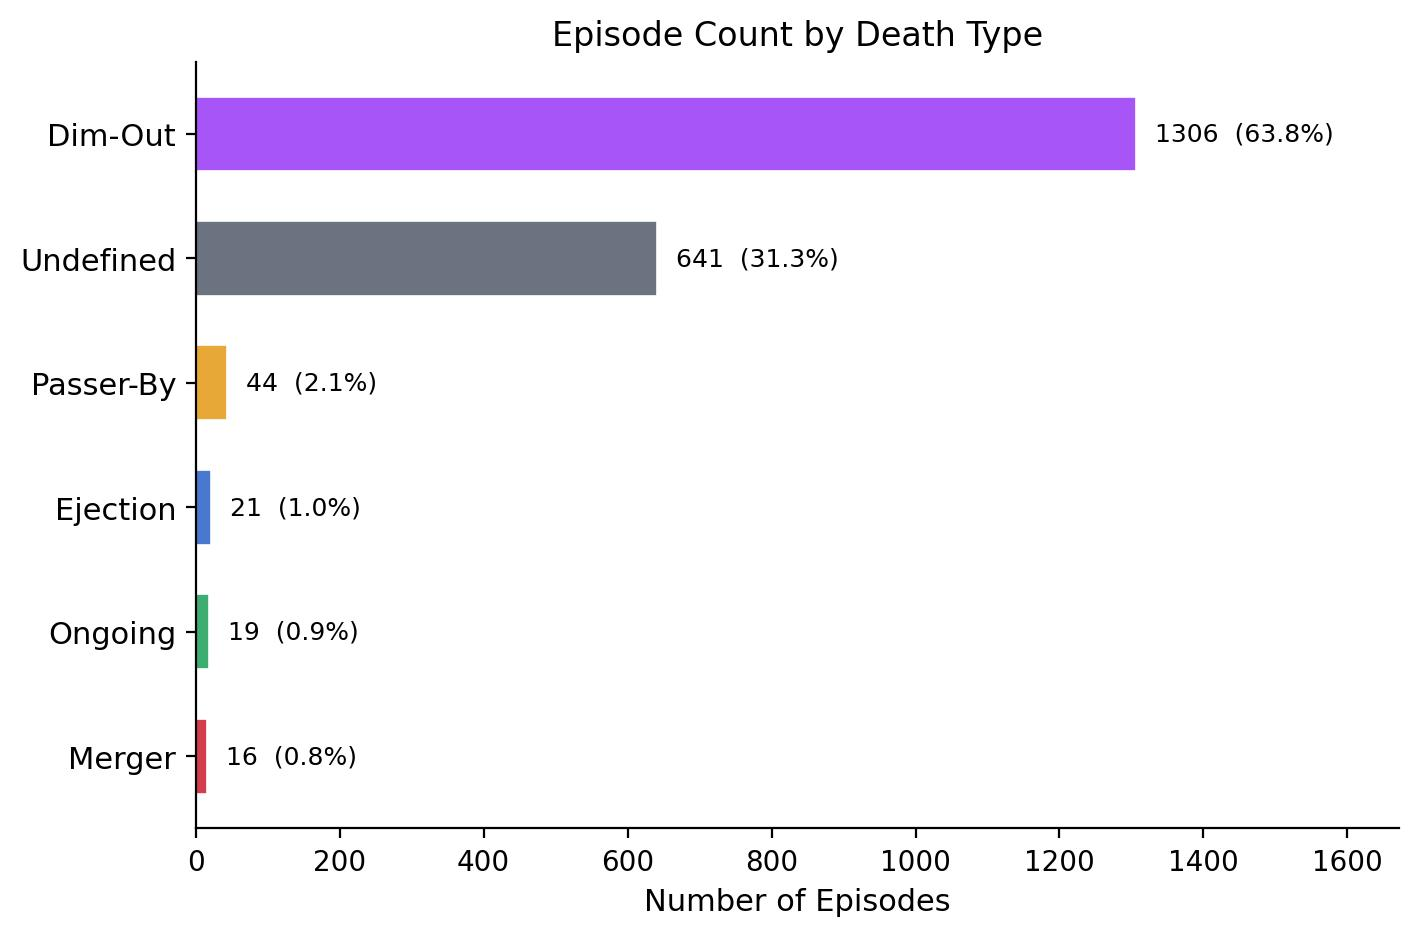
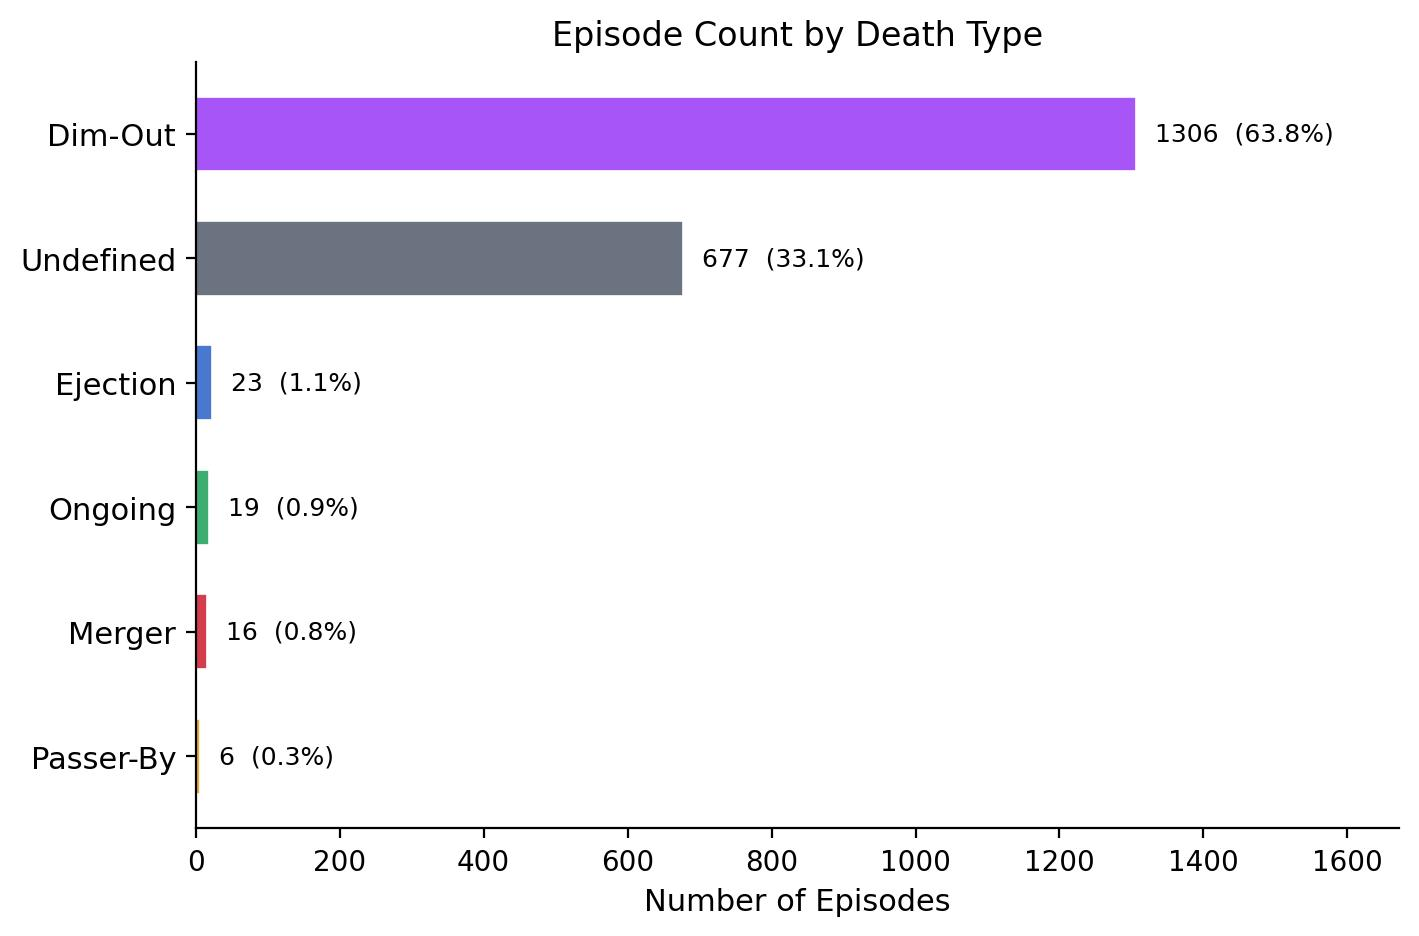
updates

diff --git a/main.tex b/main.tex
@@ -653,35 +653,35 @@ These gas column density maps represent individual frames from longer time-serie
 \begin{figure}[H]
     \centering
     \includegraphics[width=\columnwidth]{plot_1.jpeg}
-    \caption{Terminal fate classification of all 2,047 triple AGN episodes, counted per episode rather than per system, since 383 of the 1,397 systems re-form after a gap and contribute more than one episode. An episode is a contiguous run of snapshots over which the same three SMBHs satisfy the triple AGN selection criteria, with gaps of two snapshots or fewer bridged. Fates are assigned at the first usable snapshot after the episode, in the order Ongoing (the episode reaches the final catalogued snapshot), Merger (a member has vanished, having been within $0.7\,\mathrm{kpc}$ of another member), Dim-Out (a member has dropped below the threshold but is still accreting, $10^{38} \leq L_\mathrm{bol} < 10^{40}\,\mathrm{erg\,s^{-1}}$), Passer-By (the same two SMBHs are a dual AGN immediately before and after the episode), Ejection (all three SMBHs still exist but a member has left the $30\,\mathrm{kpc}$ configuration), and Undefined (all remaining episodes). Dim-Out accounts for 63.8\% of episodes, Undefined for 31.3\%, Passer-By for 2.1\%, Ejection for 1.0\%, Ongoing for 0.9\%, and Merger for 0.8\%.}
+    \caption{Terminal fate classification of all 2,047 triple AGN episodes, counted per episode rather than per system, since 383 of the 1,397 systems re-form after a gap and contribute more than one episode. An episode is a contiguous run of snapshots over which the same three SMBHs satisfy the triple AGN selection criteria, with gaps of two snapshots or fewer bridged. Fates are assigned at the first usable snapshot after the episode, in the order Ongoing (the episode reaches the final catalogued snapshot), Merger (a member has vanished, having been within $0.7\,\mathrm{kpc}$ of another member), Dim-Out (a member has dropped below the threshold but is still accreting, $10^{38} \leq L_\mathrm{bol} < 10^{40}\,\mathrm{erg\,s^{-1}}$), Passer-By (the same two SMBHs are a dual AGN immediately before and after the episode, while the third lies beyond $30\,\mathrm{kpc}$ of both), Ejection (all three SMBHs still exist but a member has left the $30\,\mathrm{kpc}$ configuration), and Undefined (all remaining episodes). Dim-Out accounts for 63.8\% of episodes, Undefined for 33.1\%, Ejection for 1.1\%, Ongoing for 0.9\%, Merger for 0.8\%, and Passer-By for 0.3\%.}
     \label{fig:fates}
 \end{figure}
 
 \begin{figure*}
     \centering
     \includegraphics[width=\textwidth]{plot_rs.jpeg}
-    \caption{Redshift evolution of triple AGN episode fates. \textit{Left:} Number of episodes in each of ten redshift bins spanning $z = 0$ to $z = 3$, stacked and coloured by terminal fate as classified in Section~\ref{subsec:fates}. \textit{Right:} The same data as the fraction of episodes in each bin. Dim-Out dominates at all redshifts (57--70\%), followed by Undefined (23--40\%), which is somewhat more common at high redshift. Passer-By (0.5--6\%), Ejection (0--3\%), and Merger (0--3\%) show no clear redshift trend. The rise in the Ongoing fraction in the lowest-redshift bin is an artefact of the catalogue ending at $z \approx 0.06$.}
+    \caption{Redshift evolution of triple AGN episode fates. \textit{Left:} Number of episodes in each of ten redshift bins spanning $z = 0$ to $z = 3$, stacked and coloured by terminal fate as classified in Section~\ref{subsec:fates}. \textit{Right:} The same data as the fraction of episodes in each bin. Dim-Out dominates at all redshifts (57--70\%), followed by Undefined (27--41\%), which is somewhat more common at high redshift. Ejection (0--3\%), Merger (0--3\%), and Passer-By ($<1\%$) show no clear redshift trend. The rise in the Ongoing fraction in the lowest-redshift bin is an artefact of the catalogue ending at $z \approx 0.06$.}
     \label{fig:fates_z}
 \end{figure*}
 
 The lifetime analysis presented in Section~\ref{subsec:lifetimes} characterised how long triple AGN systems persist, but did not address how they cease to satisfy the triple AGN criteria. To close this gap, we classify the fate of every triple AGN episode in the census, an episode being defined as a contiguous run of consecutive snapshots over which a given system satisfies the selection criteria of Section~\ref{subsec:identification}. Gaps of two or fewer consecutive snapshots between appearances of the same system are bridged into a single episode, so that a member briefly falling below the $10^{40}\,\mathrm{erg\,s^{-1}}$ threshold for one or two snapshots does not end the episode. Only gaps of three or more consecutive snapshots are treated as genuine dissolutions, generating a new, distinct episode upon the system's reappearance.
 
-The fates are counted per episode, not per system, so their total (2,047) exceeds the number of unique triple AGN systems identified in Section~\ref{subsec:lifetimes} (1,397). A system, that is, a given set of three SMBHs, can cease to satisfy the selection criteria for three or more consecutive snapshots and later satisfy them again, and each such return begins a new episode with its own terminal fate. Of the 1,397 systems, 1,014 (73\%) form a triple AGN in only a single episode, while the remaining 383 (27\%) re-form between one and seven times, after gaps of 3 to 53 snapshots (median 6), and contribute 1,033 episodes between them. These 650 re-entries account for the difference between the two totals. Because the SMBHs in a re-entering system must still exist and return to within $30\,\mathrm{kpc}$ of one another, the earlier episodes of such systems end almost exclusively in Dim-Out (459) or Undefined (179), with only 9 Passer-By and 3 Ejection episodes, and never in a Merger. Restricting the classification to the final episode of each system gives 847 Dim-Out, 462 Undefined, 35 Passer-By, 19 Ongoing, 18 Ejection, and 16 Merger fates among the 1,397 systems.
+The fates are counted per episode, not per system, so their total (2,047) exceeds the number of unique triple AGN systems identified in Section~\ref{subsec:lifetimes} (1,397). A system, that is, a given set of three SMBHs, can cease to satisfy the selection criteria for three or more consecutive snapshots and later satisfy them again, and each such return begins a new episode with its own terminal fate. Of the 1,397 systems, 1,014 (73\%) form a triple AGN in only a single episode, while the remaining 383 (27\%) re-form between one and seven times, after gaps of 3 to 53 snapshots (median 6), and contribute 1,033 episodes between them. These 650 re-entries account for the difference between the two totals. Because the SMBHs in a re-entering system must still exist and return to within $30\,\mathrm{kpc}$ of one another, the earlier episodes of such systems end almost exclusively in Dim-Out (459) or Undefined (185), with only 3 Ejection and 3 Passer-By episodes, and never in a Merger. Restricting the classification to the final episode of each system gives 847 Dim-Out, 492 Undefined, 20 Ejection, 19 Ongoing, 16 Merger, and 3 Passer-By fates among the 1,397 systems.
 
 For each episode we determine its terminal fate at the first usable snapshot following its final detection, applying the following classification in priority order. Luminosities are taken from an AGN catalogue with a floor of $10^{38}\,\mathrm{erg\,s^{-1}}$, or computed from the accretion rate in the \textsc{Tangos} database with the same floor where that catalogue is unavailable. Three-dimensional separations are taken from the projected master catalogues of Section~\ref{subsec:projected_selection}, pooled over the three viewing axes.
 \begin{enumerate}
     \item \textbf{Ongoing:} the episode is still active at the final catalogued snapshot, so that its fate lies beyond the redshift range probed by this study.
     \item \textbf{Merger:} one of the three SMBHs is absent from the black hole catalogue at the following snapshot, and at the final snapshot of the episode it lay within $0.7\,\mathrm{kpc}$ of another member, the separation below which Romulus25 merges SMBHs (Section~\ref{subsubsec:dynamics}). In Romulus25 a merged SMBH disappears permanently, and none of the vanished SMBHs reappears in any later snapshot.
     \item \textbf{Dim-Out:} a member has dropped below the detection threshold but is still accreting, with $10^{38} \leq L_\mathrm{bol} < 10^{40}\,\mathrm{erg\,s^{-1}}$ at the following snapshot, so that it remains in the AGN catalogue with a floor of $10^{38}\,\mathrm{erg\,s^{-1}}$. No condition is placed on the other two members: they need not remain a dual AGN, since the member that dimmed may have been the one linking them within $30\,\mathrm{kpc}$.
-    \item \textbf{Passer-By:} the same two SMBHs were an active dual AGN in the snapshot immediately preceding the episode and remain an active dual in the snapshot immediately following it, so that the dual outlasted the triple.
+    \item \textbf{Passer-By:} a third SMBH passes through the neighbourhood of a stable dual AGN. The same two SMBHs are an active dual AGN in the snapshot immediately preceding the episode and in the snapshot immediately following it, and at both of these snapshots the third SMBH exists and lies more than $30\,\mathrm{kpc}$ from both members of the pair. No minimum duration is required of the triple episode itself.
     \item \textbf{Ejection:} all three SMBHs still exist at the following snapshot, but a member has left the system: no member lies within $30\,\mathrm{kpc}$ of both others, so the configuration required by the triple selection is broken.
     \item \textbf{Undefined:} all remaining episodes.
 \end{enumerate}
 A residual Unknown category is reserved for cases in which the black hole catalogue for the following snapshot is unavailable; no episodes in our census fell into this category.
 
-Figure~\ref{fig:fates} shows the resulting distribution of terminal fates. Dim-Out is by far the most common, ending 1,306 of the 2,047 episodes (63.8\%) and occurring at least once in 954 of the 1,397 unique systems (68\%). It is followed by Undefined, with 641 episodes (31.3\%). Passer-By and Ejection account for 44 (2.1\%) and 21 (1.0\%) episodes, and the rarest fates are Ongoing, with 19 (0.9\%), and Merger, with 16 (0.8\%). In Dim-Out episodes the dimmed member has a median luminosity of $1.3 \times 10^{39}\,\mathrm{erg\,s^{-1}}$ at the following snapshot, roughly an order of magnitude below the threshold, and in 892 of them it is the only member below the threshold. It is usually one of the companions (Figure~\ref{fig:merger_roles}): Neighbour~2 in 850 episodes (65\%), Neighbour~1 in 403 (31\%), and the Host in 53 (4\%). Because the Dim-Out test precedes the Ejection test, 36 Dim-Out episodes in which the members also no longer satisfy the $30\,\mathrm{kpc}$ geometry are counted as Dim-Out; in 8 of these the dimmed member is also the one that has moved away, in 26 a different member has, and in 2 all three have separated. Of the 21 Ejections, 19 leave two members within $30\,\mathrm{kpc}$ of each other while the third has left, and in 2 all three members have separated.
+Figure~\ref{fig:fates} shows the resulting distribution of terminal fates. Dim-Out is by far the most common, ending 1,306 of the 2,047 episodes (63.8\%) and occurring at least once in 954 of the 1,397 unique systems (68\%). It is followed by Undefined, with 641 episodes (31.3\%). Ejection accounts for 23 episodes (1.1\%), and the rarest fates are Ongoing, with 19 (0.9\%), Merger, with 16 (0.8\%), and Passer-By, with only 6 (0.3\%). Five of the six Passer-By episodes last a single snapshot, so these are genuinely brief encounters. In Dim-Out episodes the dimmed member has a median luminosity of $1.3 \times 10^{39}\,\mathrm{erg\,s^{-1}}$ at the following snapshot, roughly an order of magnitude below the threshold, and in 892 of them it is the only member below the threshold. It is usually one of the companions (Figure~\ref{fig:merger_roles}): Neighbour~2 in 850 episodes (65\%), Neighbour~1 in 403 (31\%), and the Host in 53 (4\%). Because the Dim-Out test precedes the Ejection test, 36 Dim-Out episodes in which the members also no longer satisfy the $30\,\mathrm{kpc}$ geometry are counted as Dim-Out; in 8 of these the dimmed member is also the one that has moved away, in 26 a different member has, and in 2 all three have separated. The Passer-By and Ejection classes are closely related. Both end with all three SMBHs still present and the $30\,\mathrm{kpc}$ configuration broken, so every Passer-By episode would also satisfy the Ejection criterion and is distinguished only because the Passer-By test is applied first. A Passer-By is thus the subset of such departures with two additional properties: the departing SMBH lay more than $30\,\mathrm{kpc}$ from both other members before the episode, so it was never part of the system before the triple formed, and the remaining two SMBHs are an undisturbed dual AGN in the snapshots on either side of the episode. The Ejection class places no condition on the state of the system before the episode. Of the 23 Ejections, 14 are ejections in the strict sense: the departing SMBH already lay within $30\,\mathrm{kpc}$ of another member before the episode, and so left a system it had belonged to. In a further 7, the departing SMBH, like a passer-by, arrived from beyond $30\,\mathrm{kpc}$, but the remaining pair was not a dual AGN both before and after the episode: in 6 it was a dual at neither of these snapshots, and in 1 at only one of them. In the remaining 2, all three members have separated, so that no single member can be identified as having left.
 
-Table~\ref{tab:end_states} divides the Undefined class according to the state of the three SMBHs at the following snapshot. In 384 of the 641 Undefined episodes (60\%), all three members remain above the threshold and in the same configuration, but an additional AGN lies within $30\,\mathrm{kpc}$ of at least one member, so that the system no longer has exactly two AGN neighbours. In 141 episodes (22\%), the three SMBHs are still together but the member that fell below the threshold has dropped below $10^{38}\,\mathrm{erg\,s^{-1}}$, out of the AGN catalogue, so that the episode does not meet the Dim-Out criteria. In 110 episodes (17\%), one member has vanished from the black hole catalogue, but it lay more than $0.7\,\mathrm{kpc}$ from the other members at the final snapshot of the episode. These SMBHs have merged with some black hole between snapshots, but the merger with another member of the triple cannot be confirmed. At the final snapshot they lie a median of $1.4\,\mathrm{kpc}$ from the nearest member, with 76\% within $2\,\mathrm{kpc}$, so many are likely to have merged with a member of the triple within the $\sim 143\,\mathrm{Myr}$ before the following snapshot. The six remaining episodes cannot be measured. Over all episodes, a member falls below the threshold while the SMBHs remain together in 1,444 cases (70.5\%), of which 1,270 are Dim-Outs, 141 Undefined, and 33 Passer-By episodes, whereas the departure of a member accounts for only 65 (3.2\%), the 21 Ejections, 36 Dim-Outs, and 8 Passer-By episodes. The state is measured only at the following snapshot, a median of 143\,Myr later, so excursions between snapshots are not captured.
+Table~\ref{tab:end_states} divides the Undefined class according to the state of the three SMBHs at the following snapshot. In 384 of the 677 Undefined episodes (57\%), all three members remain above the threshold and in the same configuration, but an additional AGN lies within $30\,\mathrm{kpc}$ of at least one member, so that the system no longer has exactly two AGN neighbours. In 174 episodes (26\%), the three SMBHs are still together but the member that fell below the threshold has dropped below $10^{38}\,\mathrm{erg\,s^{-1}}$, out of the AGN catalogue, so that the episode does not meet the Dim-Out criteria. This group includes 33 episodes in which the other two members remain a dual AGN before and after the episode, but which are not Passer-By episodes because the third SMBH never left the $30\,\mathrm{kpc}$ neighbourhood. In 113 episodes (17\%), one member has vanished from the black hole catalogue, but it lay more than $0.7\,\mathrm{kpc}$ from the other members at the final snapshot of the episode. These SMBHs have merged with some black hole between snapshots, but the merger with another member of the triple cannot be confirmed. At the final snapshot they lie a median of $1.4\,\mathrm{kpc}$ from the nearest member, with 75\% within $2\,\mathrm{kpc}$, so many are likely to have merged with a member of the triple within the $\sim 143\,\mathrm{Myr}$ before the following snapshot. The six remaining episodes cannot be measured. Over all episodes, a member falls below the threshold while the SMBHs remain together in 1,444 cases (70.5\%), of which 1,270 are Dim-Outs and 174 Undefined, whereas the departure of a member accounts for only 65 (3.2\%), the 23 Ejections, 36 Dim-Outs, and 6 Passer-By episodes. The state is measured only at the following snapshot, a median of 143\,Myr later, so excursions between snapshots are not captured.
 
 \begin{table}
     \centering
@@ -692,22 +692,22 @@ Table~\ref{tab:end_states} divides the Undefined class according to the state of
         Fate & $N$ & \% \\
         \hline
         Dim-Out & 1,306 & 63.8 \\
-        Undefined & 641 & 31.3 \\
+        Undefined & 677 & 33.1 \\
         \quad further AGN within $30\,\mathrm{kpc}$ & 384 & 18.8 \\
-        \quad member below $10^{38}\,\mathrm{erg\,s^{-1}}$ & 141 & 6.9 \\
-        \quad member vanished beyond $0.7\,\mathrm{kpc}$ & 110 & 5.4 \\
+        \quad member below $10^{38}\,\mathrm{erg\,s^{-1}}$ & 174 & 8.5 \\
+        \quad member vanished beyond $0.7\,\mathrm{kpc}$ & 113 & 5.5 \\
         \quad not measurable & 6 & 0.3 \\
-        Passer-By & 44 & 2.1 \\
-        Ejection & 21 & 1.0 \\
+        Ejection & 23 & 1.1 \\
         Ongoing & 19 & 0.9 \\
         Merger & 16 & 0.8 \\
+        Passer-By & 6 & 0.3 \\
         \hline
     \end{tabular}
 \end{table}
 
-Confirmed SMBH--SMBH mergers end only 0.8\% of episodes, and even counting all 113 SMBHs that vanished while lying further from the other members (110 Undefined and 3 Passer-By episodes), mergers would end 6.3\% of episodes. These fractions are not directly comparable to the $\sim 70\%$ of SMBH pairs in dual systems found to eventually merge by \citet{Saeedzadeh2024}. Our figures count mergers at the snapshot immediately following an episode at a threshold of $10^{40}\,\mathrm{erg\,s^{-1}}$, whereas theirs follows pairs at $10^{43}\,\mathrm{erg\,s^{-1}}$ through to coalescence. Since most episodes end with all three SMBHs still in close proximity, the low merger fraction indicates that episodes usually end before any coalescence, and following the SMBHs beyond the end of each episode would be required to determine how many eventually merge. We also note that Romulus25 merges SMBHs at separations of $0.7\,\mathrm{kpc}$, so these simulations cannot address the three-body hardening of bound binaries at parsec scales discussed in Section~\ref{subsec:triple_theory}. Among the 16 Merger episodes, the SMBH that disappears is the Host in 3, Neighbour~1 in 6, and Neighbour~2 in 7 (Figure~\ref{fig:merger_roles}, left), too few to establish which member is preferentially absorbed.
+Confirmed SMBH--SMBH mergers end only 0.8\% of episodes, and even counting all 113 SMBHs that vanished while lying further from the other members, mergers would end 6.3\% of episodes. These fractions are not directly comparable to the $\sim 70\%$ of SMBH pairs in dual systems found to eventually merge by \citet{Saeedzadeh2024}. Our figures count mergers at the snapshot immediately following an episode at a threshold of $10^{40}\,\mathrm{erg\,s^{-1}}$, whereas theirs follows pairs at $10^{43}\,\mathrm{erg\,s^{-1}}$ through to coalescence. Since most episodes end with all three SMBHs still in close proximity, the low merger fraction indicates that episodes usually end before any coalescence, and following the SMBHs beyond the end of each episode would be required to determine how many eventually merge. We also note that Romulus25 merges SMBHs at separations of $0.7\,\mathrm{kpc}$, so these simulations cannot address the three-body hardening of bound binaries at parsec scales discussed in Section~\ref{subsec:triple_theory}. Among the 16 Merger episodes, the SMBH that disappears is the Host in 3, Neighbour~1 in 6, and Neighbour~2 in 7 (Figure~\ref{fig:merger_roles}, left), too few to establish which member is preferentially absorbed.
 
-Figure~\ref{fig:fates_z} examines whether the terminal fate of a triple AGN episode depends on redshift. The left panel shows the number of episodes of each fate in ten redshift bins spanning $z = 0$ to $z = 3$, while the right panel shows the same information as the fraction of episodes within each bin. Dim-Out is the dominant fate at every redshift, accounting for 57--70\% of episodes, followed by Undefined at 23--40\%. The Undefined fraction is somewhat higher at $z > 2$, consistent with further AGN more often joining a system at the higher AGN number densities of early times (Section~\ref{subsec:agn_population}). The Passer-By fraction lies between 0.5\% and 6\%, and the Ejection and Merger fractions below 3\% in every bin, none with a clear redshift trend. The Ongoing fraction is negligible across most of the redshift range but reaches 9\% in the lowest-redshift bin. This is an artefact of the catalogue ending at $z \approx 0.06$: episodes in this bin have the least opportunity to be followed to a terminal fate, and their prevalence should not be interpreted as evidence that low-redshift triple AGN are intrinsically more stable.
+Figure~\ref{fig:fates_z} examines whether the terminal fate of a triple AGN episode depends on redshift. The left panel shows the number of episodes of each fate in ten redshift bins spanning $z = 0$ to $z = 3$, while the right panel shows the same information as the fraction of episodes within each bin. Dim-Out is the dominant fate at every redshift, accounting for 57--70\% of episodes, followed by Undefined at 27--41\%. The Undefined fraction is somewhat higher at $z > 2$, consistent with further AGN more often joining a system at the higher AGN number densities of early times (Section~\ref{subsec:agn_population}). The Ejection and Merger fractions lie below 3\% and the Passer-By fraction below 1\% in every bin, none with a clear redshift trend. The Ongoing fraction is negligible across most of the redshift range but reaches 9\% in the lowest-redshift bin. This is an artefact of the catalogue ending at $z \approx 0.06$: episodes in this bin have the least opportunity to be followed to a terminal fate, and their prevalence should not be interpreted as evidence that low-redshift triple AGN are intrinsically more stable.
 
 \begin{figure*}
     \centering
